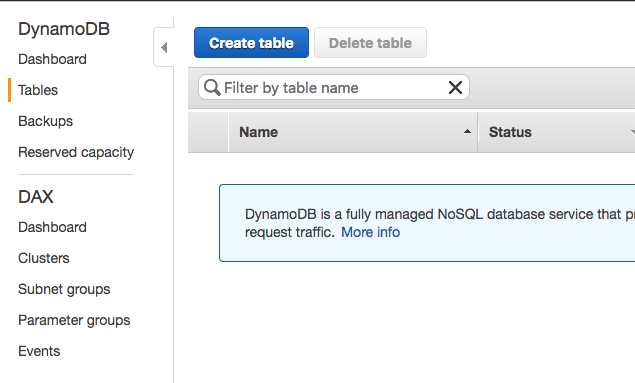
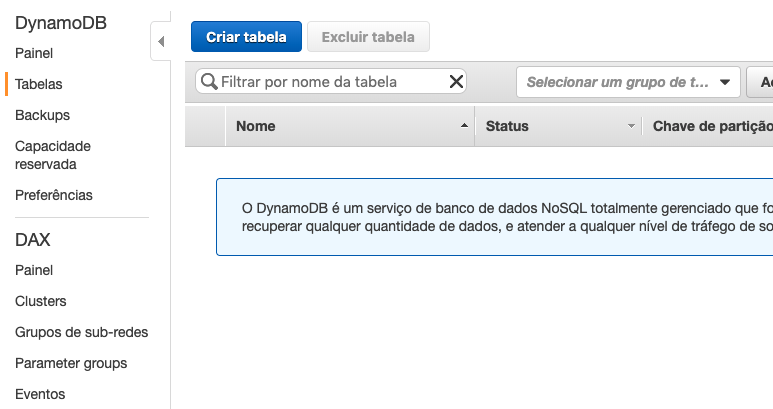
03 Dynamo dev

diff --git a/03 - Dynamo/01 - Partition Key/README.md b/03 - Dynamo/01 - Partition Key/README.md
@@ -1,18 +1,20 @@
 # 03.1 - Partition key
 
 
-1. Clique em create table no painel do dynamoDB
+1. No terminal do IDE criado no cloud9 execute o comando `cd ~/environment/aula-serverless-mob/03\ -\ Dynamo/01\ -\ Partition\ Key/` para entrar na pasta que fara este exercicio.
+2. Em uma nova aba abra o console da AWS e vá para o serviço DynamoDB.
+3. Clique em Criar Tabela no painel do dynamoDB
 ![img/partitionkey01.png](img/partitionkey01.png)
-2. Preencha os dados como na imagem e clique em create
+4. Preencha os dados como na imagem e clique em Criar
 ![img/partitionkey02.png](img/partitionkey02.png)
-3. A tabela pode levar alguns minutos para ser criada
-4. Modifique o arquivo 'dynamo.py' que esta na raiz da pasta '03 - Dynamo' para que fique como na imagem
+5. A tabela pode levar alguns minutos para ser criada
+6. Modifique o arquivo 'dynamo.py' utilizando o IDE para que fique como na imagem
 ![img/partitionkey03.png](img/partitionkey03.png)
-5. Para executar o arquivo basta via linha de comando ir até a pasta onde ele se encontra e rodar o comando `python3 dynamo.py`
-6. Se voltar a pagina do dynamoDB e atualizar verá que temos apenas um registro. Isso ocorreu porque quando inserirmos partition keys identicas o banco sobrescreve o registro anterior.
+7. Para executar o arquivo basta via linha de comando ir até a pasta onde ele se encontra e rodar o comando `python3 dynamo.py`
+8. Se voltar a pagina do dynamoDB e atualizar verá que temos apenas um registro. Isso ocorreu porque quando inserirmos partition keys identicas o banco sobrescreve o registro anterior.
 ![img/partitionkey04.png](img/partitionkey04.png)
-7. Altere o arquivo 'dynamo.py' para que as partition keys fiquem diferentes
+9. Altere o arquivo 'dynamo.py' para que as partition keys fiquem diferentes
 ![img/partitionkey05.png](img/partitionkey05.png)
-8. execute novamente o arquivo `python3 dynamo.py`
-9. Agora a tabela book tem 3 registros, cada um com seu atributo
+10. execute novamente o arquivo `python3 dynamo.py`
+11. Agora a tabela book tem 3 registros, cada um com seu atributo
 ![img/partitionkey06.png](img/partitionkey06.png)
